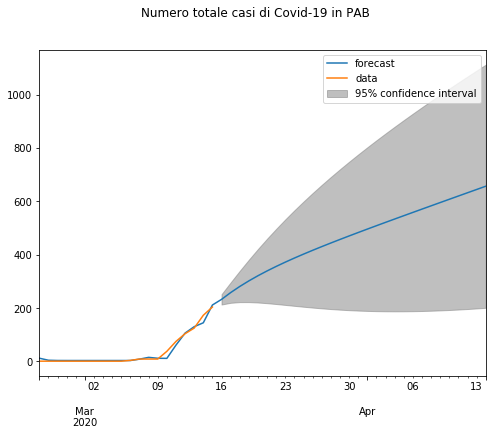
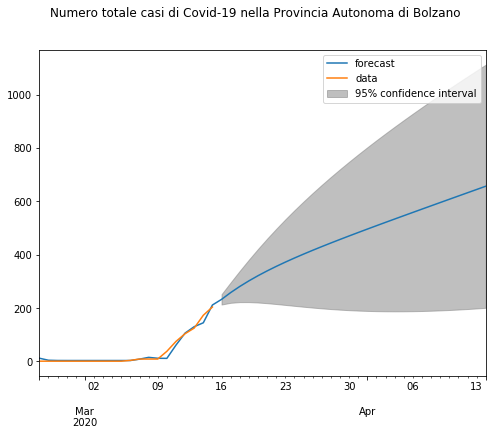
Added casi in provincia di bolzano

Changed region(s): [[0.0915, 0.0, 0.9451, 0.0598]]

diff --git a/time_series_PAB.py b/time_series_PAB.py
@@ -58,9 +58,6 @@ def arima_predict(list_data, list_dates, days_prediction, plot_title):
     fig.suptitle(plot_title)
 
 
-arima_predict(list_totale_casi, list_dates, 50, "Numero totale casi di Covid-19 in PAB")
-arima_predict(list_diff_casi, list_dates, 100, "Nuovi casi di Covid-19 in Italia")
-arima_predict(list_ricoverati_sintomi, list_dates, 50, "Numero di ricoverati con sintomi in Italia")
-arima_predict(list_ratio_deceduti_guariti, list_dates, 30, "Ratio guariti/deceduti in Italia")
+arima_predict(list_totale_casi, list_dates, 50, "Numero totale casi di Covid-19 nella Provincia Autonoma di Bolzano")
 
 
